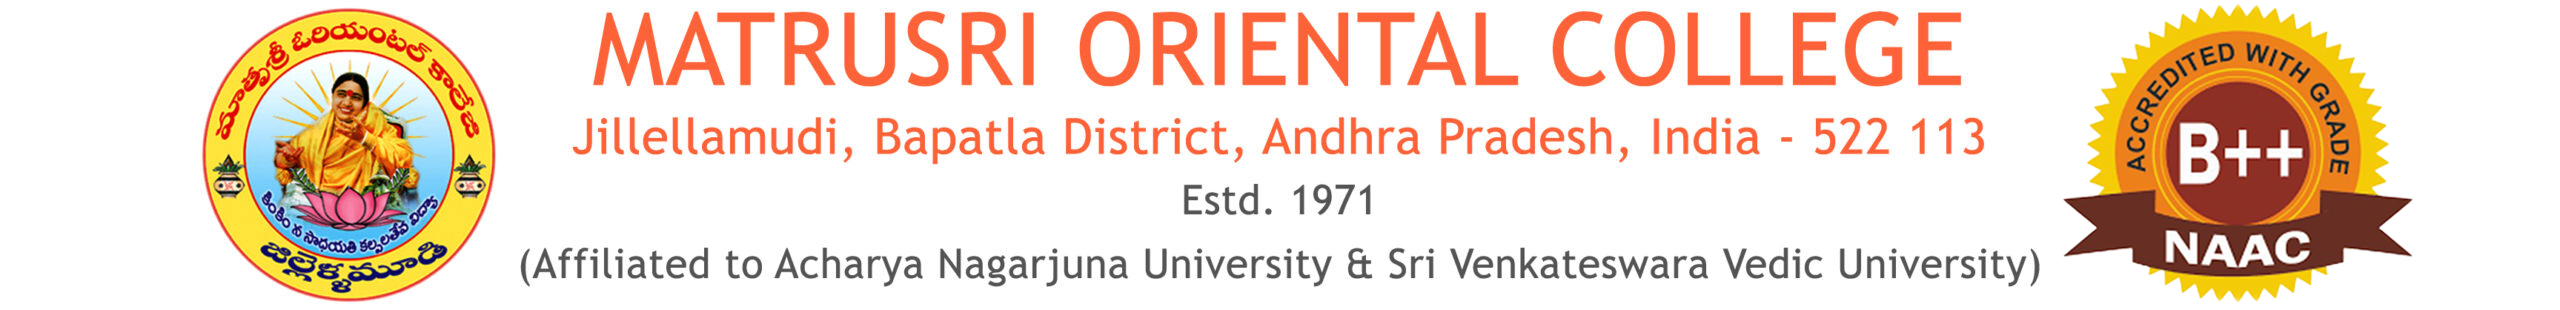
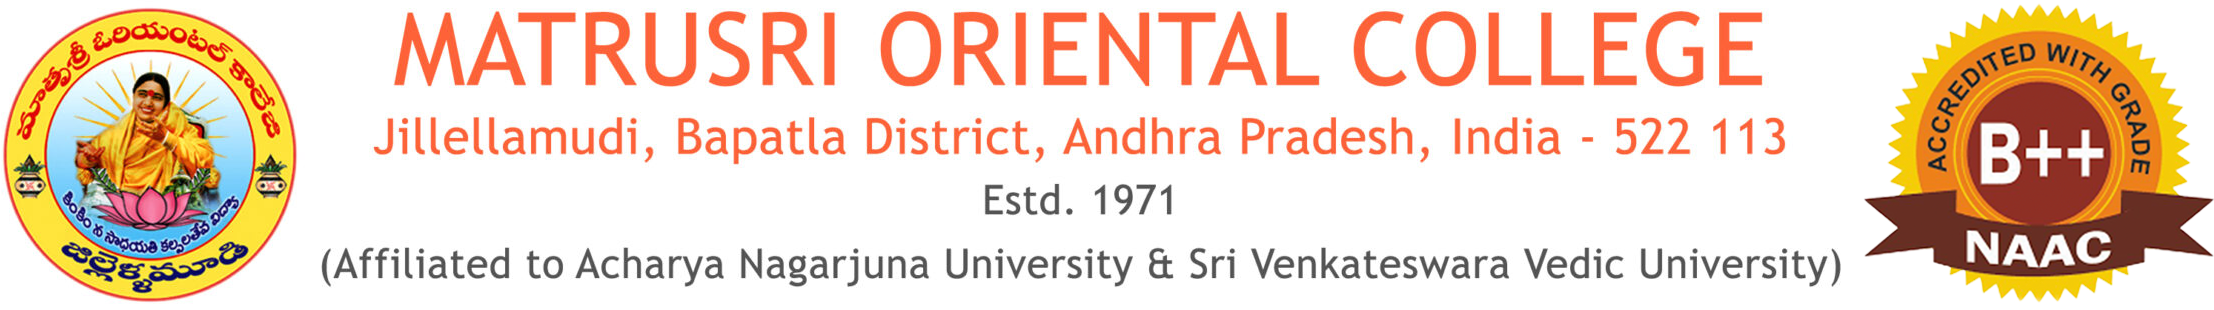
feat: implement landing page components including Hero and About sections with layout navigation and footer support

diff --git a/src/components/home/AboutSection.jsx b/src/components/home/AboutSection.jsx
@@ -27,8 +27,35 @@ const features = [
 
 const AboutSection = () => {
   return (
-    <section className="py-24 bg-white overflow-hidden">
+    <section className="pb-24 pt-0 bg-white relative z-10">
       <div className="max-w-7xl mx-auto px-4 sm:px-6 lg:px-8">
+        
+        {/* Features Grid */}
+        <motion.div
+          initial={{ opacity: 0, y: 40 }}
+          whileInView={{ opacity: 1, y: 0 }}
+          viewport={{ once: true }}
+          transition={{ duration: 0.8 }}
+          className="relative z-20 -mt-16 md:-mt-24 mb-24 grid grid-cols-1 sm:grid-cols-2 lg:grid-cols-4 gap-6"
+        >
+          {features.map((feature, index) => (
+            <motion.div
+              key={index}
+              initial={{ opacity: 0, y: 20 }}
+              whileInView={{ opacity: 1, y: 0 }}
+              viewport={{ once: true }}
+              transition={{ delay: 0.1 + (index * 0.1), duration: 0.5 }}
+              className="bg-white rounded-2xl p-8 border border-gray-100 shadow-xl hover:shadow-2xl hover:-translate-y-1 transition-all duration-300"
+            >
+              <div className="w-16 h-16 bg-brand-light rounded-xl shadow-sm flex items-center justify-center mb-6">
+                {feature.icon}
+              </div>
+              <h3 className="text-xl font-bold text-gray-900 mb-3">{feature.title}</h3>
+              <p className="text-gray-600 text-sm leading-relaxed">{feature.description}</p>
+            </motion.div>
+          ))}
+        </motion.div>
+
         <div className="flex flex-col lg:flex-row items-center gap-16">
 
           {/* Text Content */}
@@ -89,32 +116,6 @@ const AboutSection = () => {
             </div>
           </motion.div>
         </div>
-
-        {/* Features Grid */}
-        <motion.div
-          initial={{ opacity: 0, y: 40 }}
-          whileInView={{ opacity: 1, y: 0 }}
-          viewport={{ once: true }}
-          transition={{ duration: 0.8, delay: 0.4 }}
-          className="mt-20 grid grid-cols-1 sm:grid-cols-2 lg:grid-cols-4 gap-6"
-        >
-          {features.map((feature, index) => (
-            <motion.div
-              key={index}
-              initial={{ opacity: 0, y: 20 }}
-              whileInView={{ opacity: 1, y: 0 }}
-              viewport={{ once: true }}
-              transition={{ delay: 0.2 + (index * 0.1), duration: 0.5 }}
-              className="bg-brand-light rounded-2xl p-8 border border-gray-100 hover:shadow-lg hover:-translate-y-1 transition-all duration-300"
-            >
-              <div className="w-16 h-16 bg-white rounded-xl shadow-sm flex items-center justify-center mb-6">
-                {feature.icon}
-              </div>
-              <h3 className="text-xl font-bold text-gray-900 mb-3">{feature.title}</h3>
-              <p className="text-gray-600 text-sm leading-relaxed">{feature.description}</p>
-            </motion.div>
-          ))}
-        </motion.div>
       </div>
     </section>
   );

diff --git a/src/components/layout/Navbar.jsx b/src/components/layout/Navbar.jsx
@@ -45,17 +45,12 @@ const Navbar = () => {
   const [activeMegaMenu, setActiveMegaMenu] = useState(null);
 
   return (
-    <nav className="fixed w-full z-50 bg-white/90 backdrop-blur-md shadow-sm border-b border-gray-100">
-      <div className="max-w-7xl mx-auto px-0 sm:pe-6">
+    <nav className="fixed w-full z-50 bg-white backdrop-blur-md shadow-sm border-b border-gray-100">
+      <div className="w-full px-4 sm:px-6 lg:px-8">
         <div className="flex justify-between items-center py-3 min-h-[5rem]">
           {/* Logo */}
-          <Link to="/" className="flex items-center gap-3 md:gap-5">
-            <img src="/MOC_Logo.png" alt="MOC Logo" className="h-16 md:h-24 w-auto object-contain" />
-            <div className="flex flex-col justify-center">
-              <span className="font-bold text-xl md:text-2xl text-brand-primary leading-tight">Matrusri</span>
-              <span className="text-xs md:text-sm text-brand-secondary font-bold uppercase tracking-widest mt-0.5">Oriental College</span>
-            </div>
-            <img src="/MOC-Naac-B.png" alt="MOC-Naac-B" className="h-16 md:h-24 w-auto object-contain" />
+          <Link to="/" className="flex items-center">
+            <img src="/MOC-Jillellamudi-Banner-Naac-B.png" alt="MOC Banner" className="h-16 md:h-28 w-auto object-contain" />
           </Link>
 
           {/* Desktop Navigation */}

diff --git a/src/components/layout/Footer.jsx b/src/components/layout/Footer.jsx
@@ -25,17 +25,11 @@ const Footer = () => {
     <footer className="bg-brand-dark text-white pt-16 pb-8 border-t-4 border-brand-secondary">
       <div className="max-w-7xl mx-auto px-4 sm:px-6 lg:px-8">
         <div className="grid grid-cols-1 md:grid-cols-2 lg:grid-cols-4 gap-12 mb-12">
-          
+
           {/* Brand Info */}
           <div>
-            <div className="flex items-center gap-3 mb-6">
-              <div className="w-12 h-12 bg-white rounded-full flex items-center justify-center text-brand-primary font-bold text-xl">
-                MOC
-              </div>
-              <div className="flex flex-col">
-                <span className="font-bold text-xl leading-tight">Matrusri</span>
-                <span className="text-sm text-brand-secondary font-medium uppercase tracking-wider">Oriental College</span>
-              </div>
+            <div className="mb-6 bg-white/95 p-1 rounded-full inline-block">
+              <img src="./MOC_Logo.png" alt="MOC Banner" className="h-24 w-auto object-contain" />
             </div>
             <p className="text-gray-400 text-sm leading-relaxed mb-6">
               A Premier Educational Institution inaugurated by Viswajanani Jillellamudi AMMA on August 6, 1971. Emphasizing classical languages and modern education.

diff --git a/src/components/home/HeroSection.jsx b/src/components/home/HeroSection.jsx
@@ -39,7 +39,7 @@ const slides = [
 
 const HeroSection = () => {
   return (
-    <div className="relative w-full h-[100vh] min-h-[600px] mt-0">
+    <div className="relative w-full h-[90vh] min-h-[600px] mt-0">
       <Swiper
         modules={[Autoplay, EffectFade, Navigation, Pagination]}
         effect="fade"
@@ -71,7 +71,7 @@ const HeroSection = () => {
 
                 {/* Content */}
                 <div className="relative z-20 w-full h-full flex flex-col items-start justify-center text-left px-6 sm:px-12 lg:px-24 mx-auto">
-                  <div className="bg-brand-dark/30 p-8 md:p-12 rounded-3xl border border-white/10 shadow-2xl">
+                  <div className="bg-brand-dark/80 p-8 md:p-12 rounded-3xl border border-white/10 shadow-2xl">
                     <motion.h1
                       initial={{ opacity: 0, x: -50 }}
                       animate={isActive ? { opacity: 1, x: 0 } : { opacity: 0, x: -50 }}
